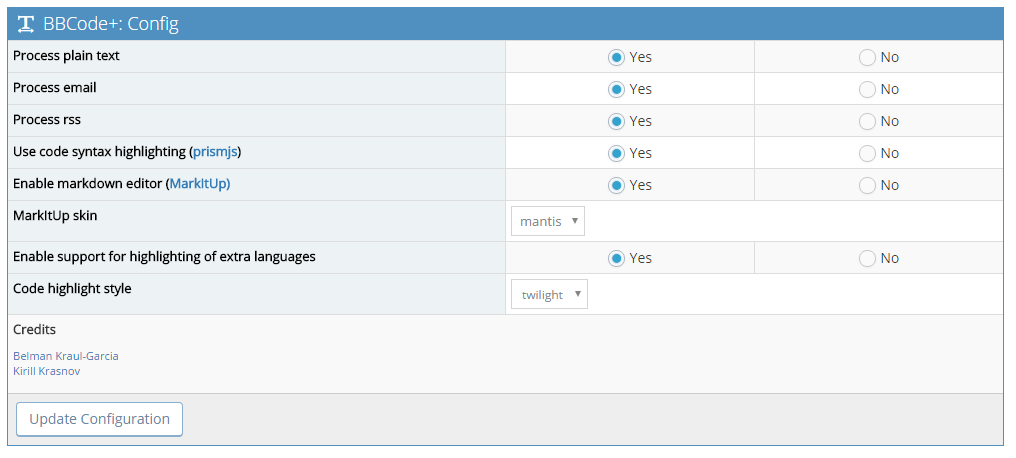
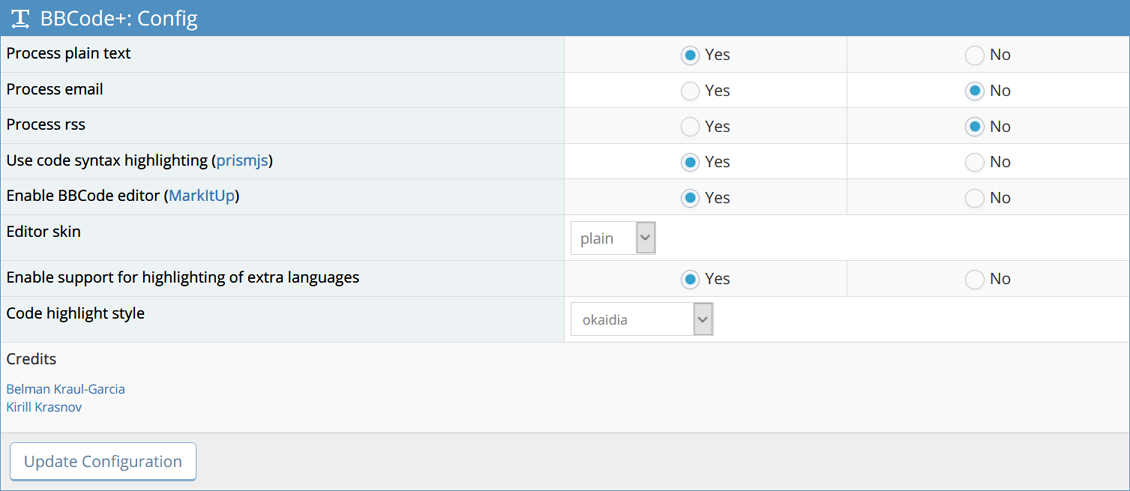
Updated README and screenshots

diff --git a/README.md b/README.md
@@ -14,7 +14,7 @@ Incorporates the following configurable features:
 
 ## Repository Information
 
-**NOTE:** BBCodePlus 2.x is now the **master** for the BBCodePlus project. Please re-fork or update your upstreams to follow the new model outlined below
+**NOTE:** BBCodePlus 2.x is now the **master** for the BBCodePlus project. Please **re-fork** or (carefully) **update** your fork (branch structure on upstream and origin).
 
 | Branch                                                       | Description                                            |
 | ------------------------------------------------------------ | ------------------------------------------------------ |
@@ -23,13 +23,13 @@ Incorporates the following configurable features:
 | [master-1.3.x](https://github.com/mantisbt-plugins/BBCodePlus/tree/master-1.3.x) | Support for MantisBT 1.3.x (legacy).                   |
 ## Change Log
 
-###2.1.0
+### 2.1.0
 * Brand new BBCode/HTML parsers, from [Genert/bbcode](https://github.com/Genert/bbcode).
 * Updated Prism code highlighter, now with Copy to Clipboard functionality.
 * Addresses multiple outstanding issues.
 * Added check for Mantis Formatting Markdown feature (warns if it is **ON**, as it will cause issues with BBCodePlus).
 * Cleaned up lots of old code, which will make it easier to maintain.
-###2.0.18
+### 2.0.18
 * Updated MarkItUp javascript dependency.
 * Merged 
 
@@ -41,11 +41,7 @@ If you would like to contribute to BBCode plus, please [read this first](https:/
 
 ![Markup editor](https://raw.githubusercontent.com/mantisbt-plugins/BBCodePlus/master/Screen1.png)
 
-![Configuration](https://raw.githubusercontent.com/mantisbt-plugins/BBCodePlus/master-2.0.x/Screen2.png)
-
-Considerations
--------------------------
-* Requires mantis version 2.x+ or latest development build.
+![Configuration](https://raw.githubusercontent.com/mantisbt-plugins/BBCodePlus/master/Screen2.png)
 
 Supported BBCode Tags
 ---------------------
